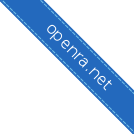
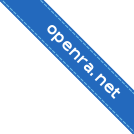
Make some corrections -text on ribbon is in Dejavu Sans bold -changed link text to "Visit OpenRA official website"

Changed region(s): [[0.3284, 0.1791, 0.8955, 0.7463]]

diff --git a/openraData/templates/header.html b/openraData/templates/header.html
@@ -46,8 +46,8 @@
             </h1>
         </div>
 
-        <a id="ghbanner" href="http://openra.net" target="_blank" title="Go to OpenRA Official Website">
-            <img alt="Visit OpenRA official website" src="/static/images/openra-net.svg" onerror='this.onerror = null; this.src="/static/images/openra-net-fallback.png"'>
+        <a id="ghbanner" href="http://openra.net" target="_blank" title="Go to the official OpenRA Website">
+            <img alt="Go to the official OpenRA Website" src="/static/images/openra-net.svg" onerror='this.onerror = null; this.src="/static/images/openra-net-fallback.png"'>
         </a>
 
         <form id="quick-search" method="POST" action="/search/">{% csrf_token %}
